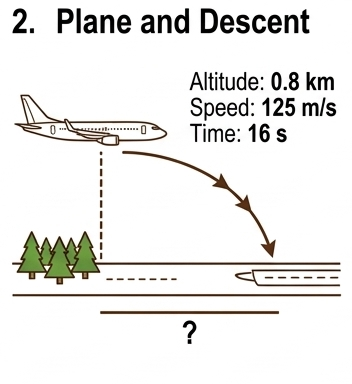
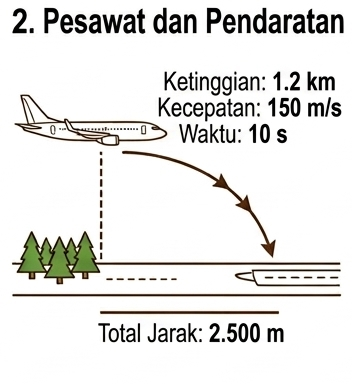
Update math problems with new images and Indonesian text
Add 8 new contextual math problems with corresponding images and Indonesian descriptions to the Pythagoras theorem section.

Replit-Commit-Author: Agent
Replit-Commit-Session-Id: 68ecfdb3-bbb6-4517-aefa-2741b72e5441
Replit-Commit-Checkpoint-Type: full_checkpoint
Replit-Commit-Event-Id: 46d9752c-d294-4086-90db-437c93c230ab
Replit-Commit-Screenshot-Url: https://storage.googleapis.com/screenshot-production-us-central1/8171e837-28eb-4690-be43-3140719ba305/68ecfdb3-bbb6-4517-aefa-2741b72e5441/u1HBNSs
Replit-Helium-Checkpoint-Created: true

diff --git a/src/pages/latihan-mandiri/kelas8/teorema-pythagoras/MasalahKontekstualPage.tsx b/src/pages/latihan-mandiri/kelas8/teorema-pythagoras/MasalahKontekstualPage.tsx
@@ -25,7 +25,91 @@ const rp = (p: Part, i: number) => (
   </div>
 );
 
-const questions: Q[] = [];
+const questions: Q[] = [
+  {
+    n: 1, type: "kontekstual", title: "Tangga & Dinding",
+    img: "/kontekstual/soal-1.png",
+    content: "Sebuah tangga dengan panjang 13 meter disandarkan pada dinding sebuah gedung. Jika jarak antara pangkal tangga di tanah dengan dinding gedung adalah 5 meter, berapakah tinggi dinding yang dapat dicapai oleh ujung tangga tersebut?",
+    parts: [
+      { label: "a.", math: "h^2 = 13^2 - 5^2 = 169 - 25 = ..." },
+      { label: "b.", math: "h = \\sqrt{144} = ...\\ \\text{m}" },
+      { label: "Hint:", text: "Gunakan Teorema Pythagoras" },
+    ],
+  },
+  {
+    n: 2, type: "kontekstual", title: "Pesawat dan Pendaratan",
+    img: "/kontekstual/soal-2.png",
+    content: "Sebuah pesawat tempur berada di ketinggian 1.200 meter dari permukaan tanah. Pilot mulai menurunkan ketinggian secara konstan sejauh 150 meter per detik selama 10 detik. Berapakah jarak mendatar (horizontal) yang telah ditempuh pesawat jika total jarak lintasannya adalah 2.500 meter?",
+    parts: [
+      { label: "a.", math: "\\text{Penurunan ketinggian} = 150 \\times 10 = 1500\\ \\text{m}" },
+      { label: "b.", math: "\\text{Ketinggian akhir} = 1200 - 1500\\ \\Rightarrow\\ \\text{cek: pesawat sudah mendarat?}" },
+      { label: "c.", math: "d^2 = 2500^2 - 1200^2 = 6.250.000 - 1.440.000 = ..." },
+      { label: "d.", math: "d = \\sqrt{4.810.000} \\approx ...\\ \\text{m}" },
+    ],
+  },
+  {
+    n: 3, type: "kontekstual", title: "Pengecatan Gudang",
+    img: "/kontekstual/soal-3.png",
+    content: "Pak Rahmat ingin mengecat sisi samping gudangnya. Dinding berbentuk persegi panjang dengan tinggi 5 m dan lebar alas 8 m, ditambah atap segitiga setinggi 3 m. Jika biaya pengecatan Rp50.000 per m², hitunglah total biaya yang harus dikeluarkan!",
+    parts: [
+      { label: "a.", math: "\\text{Luas persegi panjang} = 8 \\times 5 = 40\\ \\text{m}^2" },
+      { label: "b.", math: "\\text{Luas segitiga atap} = \\tfrac{1}{2} \\times 8 \\times 3 = 12\\ \\text{m}^2" },
+      { label: "c.", math: "\\text{Total luas} = 40 + 12 = 52\\ \\text{m}^2" },
+      { label: "d.", math: "\\text{Biaya} = 52 \\times 50.000 = \\text{Rp}\\ ..." },
+    ],
+  },
+  {
+    n: 4, type: "kontekstual", title: "Layang-layang & Pohon",
+    img: "/kontekstual/soal-4.png",
+    content: "Dinda sedang bermain layang-layang dengan panjang tali 50 meter. Jarak posisi Dinda berdiri dengan titik tepat di bawah layang-layang adalah 30 meter. Jika tinggi tangan Dinda saat memegang tali adalah 1,5 meter dari tanah, berapakah tinggi layang-layang tersebut dari permukaan tanah?",
+    parts: [
+      { label: "a.", math: "h_{rel}^2 = 50^2 - 30^2 = 2500 - 900 = 1600" },
+      { label: "b.", math: "h_{rel} = \\sqrt{1600} = 40\\ \\text{m}" },
+      { label: "c.", math: "h_{total} = 40 + 1{,}5 = ...\\ \\text{m}" },
+    ],
+  },
+  {
+    n: 5, type: "kontekstual", title: "Jarak Tali Layang-layang",
+    img: "/kontekstual/soal-5.png",
+    content: "Sebuah layang-layang diikat dengan tali sepanjang 50 meter yang ditarik kencang (benang dalam keadaan tegang). Jarak dari titik pegang ke titik tepat di bawah layang-layang adalah 30 meter. Berapakah tinggi layang-layang dari tanah (Ground to Kite)?",
+    parts: [
+      { label: "a.", math: "h^2 = 50^2 - 30^2 = 2500 - 900 = ..." },
+      { label: "b.", math: "h = \\sqrt{1600} = ...\\ \\text{m}" },
+      { label: "c.", text: "Berapa meter tinggi layang-layang dari tanah?" },
+    ],
+  },
+  {
+    n: 6, type: "kontekstual", title: "Kuda-kuda Gudang",
+    img: "/kontekstual/soal-6.png",
+    content: "Gambar di bawah menunjukkan kerangka atap (kuda-kuda) sebuah gudang. Hitunglah total panjang kayu yang dibutuhkan jika panjang alasnya adalah 12 meter dan tinggi puncaknya adalah 4 meter!",
+    parts: [
+      { label: "a.", math: "\\text{Setengah alas} = 12 \\div 2 = 6\\ \\text{m}" },
+      { label: "b.", math: "\\text{Sisi miring}^2 = 6^2 + 4^2 = 36 + 16 = 52" },
+      { label: "c.", math: "\\text{Sisi miring} = \\sqrt{52} = 2\\sqrt{13} \\approx ...\\ \\text{m}" },
+      { label: "d.", math: "\\text{Total kayu} = 12 + 2 \\times \\sqrt{52} \\approx ...\\ \\text{m}" },
+    ],
+  },
+  {
+    n: 7, type: "kontekstual", title: "Kapal & Radar",
+    img: "/kontekstual/soal-7.png",
+    content: "Dua buah helikopter terdeteksi oleh radar sebuah kapal induk. Radar mendeteksi helikopter A pada jarak 13 km dan helikopter B pada jarak 15 km. Jika jarak horizontal kedua helikopter dari kapal masing-masing adalah 12 km, hitunglah selisih ketinggian antara helikopter A dan helikopter B!",
+    parts: [
+      { label: "a.", math: "h_A^2 = 13^2 - 12^2 = 169 - 144 = 25\\ \\Rightarrow\\ h_A = 5\\ \\text{km}" },
+      { label: "b.", math: "h_B^2 = 15^2 - 12^2 = 225 - 144 = 81\\ \\Rightarrow\\ h_B = 9\\ \\text{km}" },
+      { label: "c.", math: "\\Delta h = h_B - h_A = 9 - 5 = ...\\ \\text{km}" },
+    ],
+  },
+  {
+    n: 8, type: "kontekstual", title: "Pohon & Kawat",
+    img: "/kontekstual/soal-8.png",
+    content: "Dua kawat penopang masing-masing sepanjang 1,2 m dipasang dari puncak pohon ke tanah. Jarak horizontal kawat pertama ke batang pohon adalah 0,8 m dan kawat kedua adalah 0,9 m. Berapakah tinggi pohon dari masing-masing kawat?",
+    parts: [
+      { label: "a.", math: "h_1^2 = 1{,}2^2 - 0{,}8^2 = 1{,}44 - 0{,}64 = 0{,}80\\ \\Rightarrow\\ h_1 = \\sqrt{0{,}8} \\approx ...\\ \\text{m}" },
+      { label: "b.", math: "h_2^2 = 1{,}2^2 - 0{,}9^2 = 1{,}44 - 0{,}81 = 0{,}63\\ \\Rightarrow\\ h_2 = \\sqrt{0{,}63} \\approx ...\\ \\text{m}" },
+      { label: "c.", text: "Bandingkan h₁ dan h₂. Mengapa hasilnya berbeda jika kawat sama panjang?" },
+    ],
+  },
+];
 
 const MasalahKontekstualPage = () => {
   const navigate = useNavigate();
